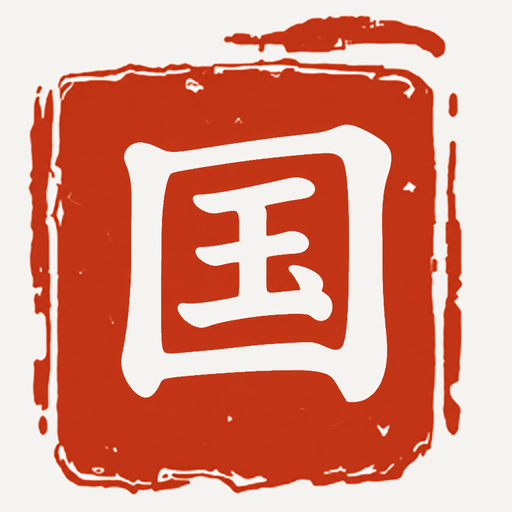
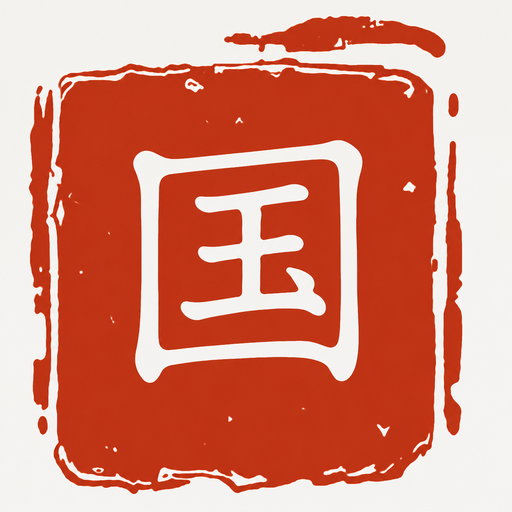
tingli 6.33.0: новая иконка 国 (тонкая версия) для курса 中国

diff --git a/tingli/index.html b/tingli/index.html
@@ -1216,7 +1216,7 @@ body.in-unit img, body.in-unit audio, body.in-unit video { max-width:100% !impor
   <button class="tab" id="tab-idv" onclick="goTab('idv')" title="口语"><span class="ic"><img class="ic-img ic-img-on" src="tab-yu.png?v=5.59.0" alt=""><img class="ic-img ic-img-off" src="tab-yu-off.png?v=5.59.0" alt=""></span><span class="tab-label">口语<span class="tab-ru">Разговорный язык с Любой</span></span></button>
   <button class="tab" id="tab-team" onclick="goTab('team')" title="团队"><span class="ic"><img class="ic-img ic-img-on" src="tab-tuan.png?v=5.59.0" alt=""><img class="ic-img ic-img-off" src="tab-tuan-off.png?v=5.59.0" alt=""></span><span class="tab-label">团队<span class="tab-ru">Групповые уроки с Любой</span></span></button>
   <button class="tab" id="tab-sm" onclick="goTab('sm')" title="思想"><span class="ic"><img class="ic-img ic-img-on" src="tab-xiang.png?v=6.32.0" alt=""><img class="ic-img ic-img-off" src="tab-xiang-off.png?v=6.32.0" alt=""></span><span class="tab-label">思想<span class="tab-ru">Сдвиг мышления · Елена Макк</span></span></button>
-  <button class="tab" id="tab-lex" onclick="goTab('lex')" title="中国"><span class="ic"><img class="ic-img ic-img-on" src="tab-guo.png?v=6.32.0" alt=""><img class="ic-img ic-img-off" src="tab-guo-off.png?v=6.32.0" alt=""></span><span class="tab-label">中国<span class="tab-ru">Всё о Китае</span></span></button>
+  <button class="tab" id="tab-lex" onclick="goTab('lex')" title="中国"><span class="ic"><img class="ic-img ic-img-on" src="tab-guo.png?v=6.33.0" alt=""><img class="ic-img ic-img-off" src="tab-guo-off.png?v=6.33.0" alt=""></span><span class="tab-label">中国<span class="tab-ru">Всё о Китае</span></span></button>
   <button class="tab" id="tab-yin" onclick="goTab('yin')" title="声音"><span class="ic"><img class="ic-img ic-img-on" src="tab-yin.png?v=5.59.0" alt=""><img class="ic-img ic-img-off" src="tab-yin-off.png?v=5.59.0" alt=""></span><span class="tab-label">声音<span class="tab-ru">Аудио-уроки</span></span></button>
   <button class="tab" id="tab-biz" onclick="goTab('biz')" title="商务"><span class="ic"><img class="ic-img ic-img-on" src="tab-biz.png?v=5.59.0" alt=""><img class="ic-img ic-img-off" src="tab-biz-off.png?v=5.59.0" alt=""></span><span class="tab-label">商务<span class="tab-ru">Бизнес. Самоучеба</span></span></button>
   <button class="tab active" id="tab-lessons" onclick="goTab('lessons')" title="听力"><span class="ic"><img class="ic-img ic-img-on" src="tab-ting.png?v=5.59.0" alt=""><img class="ic-img ic-img-off" src="tab-ting-off.png?v=5.59.0" alt=""></span><span class="tab-label">听力<span class="tab-ru">Аудирование. Самоучеба</span></span></button>
@@ -36154,7 +36154,7 @@ const favKey = (u, part, ti) => u.unit + ':' + part.id + ':' + ti;
 const isFav = (u, part, ti) => loadFavs().includes(favKey(u, part, ti));
 const favKeyPart = (u, part) => u.unit + ':' + part.id;
 const isFavPart = (u, part) => loadFavs().includes(favKeyPart(u, part));
-const APP_VER = '6.32.1';
+const APP_VER = '6.33.0';
 /* 6.10.0: бета-режим для показа курса постороннему — ?beta=1
    всё открыто, свой ключ прогресса, в статистику владельца не пишет */
 const RIK_BETA = (function () {

diff --git a/tingli/sw.js b/tingli/sw.js
@@ -1,5 +1,5 @@
 /* Tingli 5.95.2: pinned offline shell, durable media, resumable verified downloads. */
-const VERSION = '6.32.1';
+const VERSION = '6.33.0';
 const CACHE = 'tingli-shell-' + VERSION;
 const MEDIA_CACHE = 'tingli-media-v1';
 const MANIFEST = './offline-manifest.5.95.2.json';
